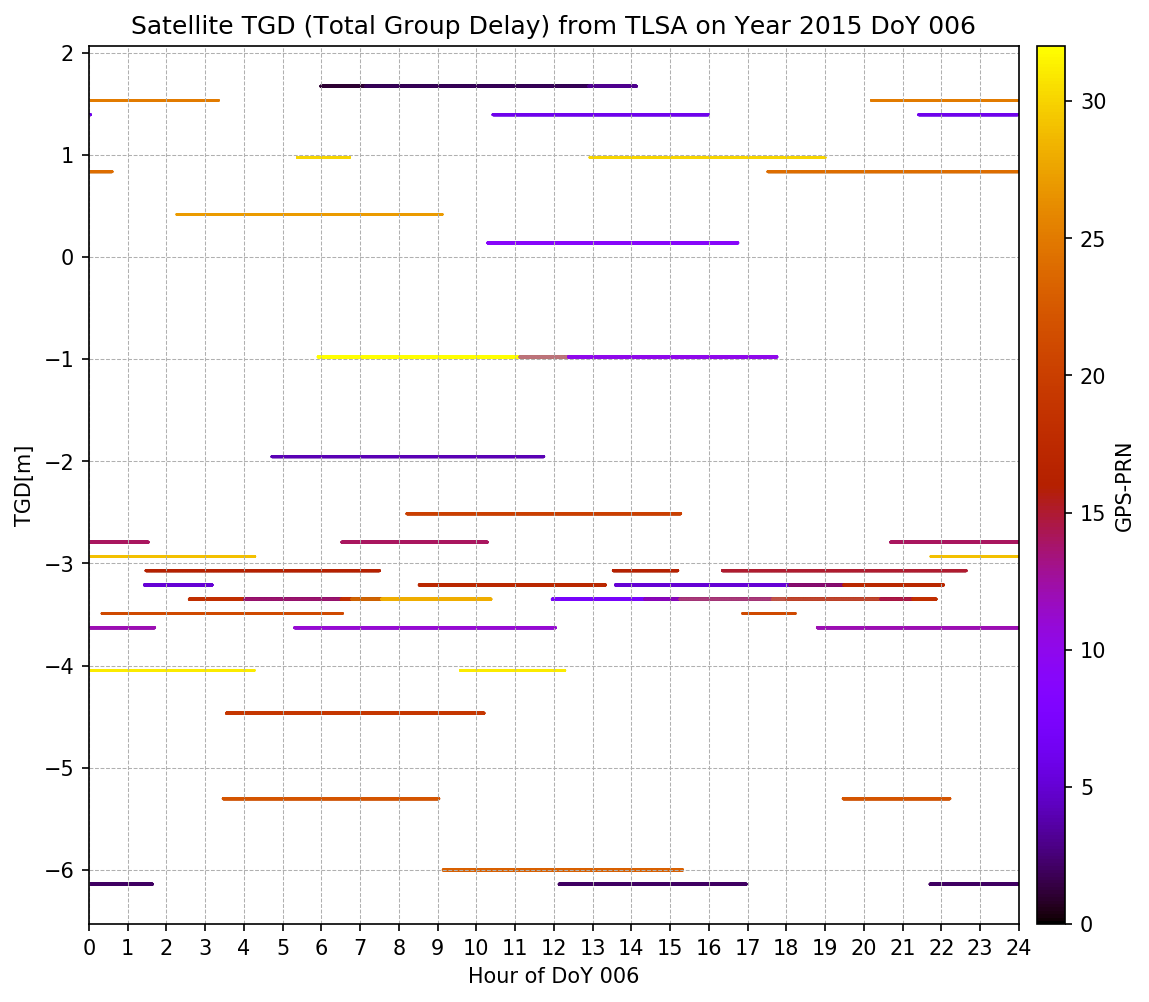
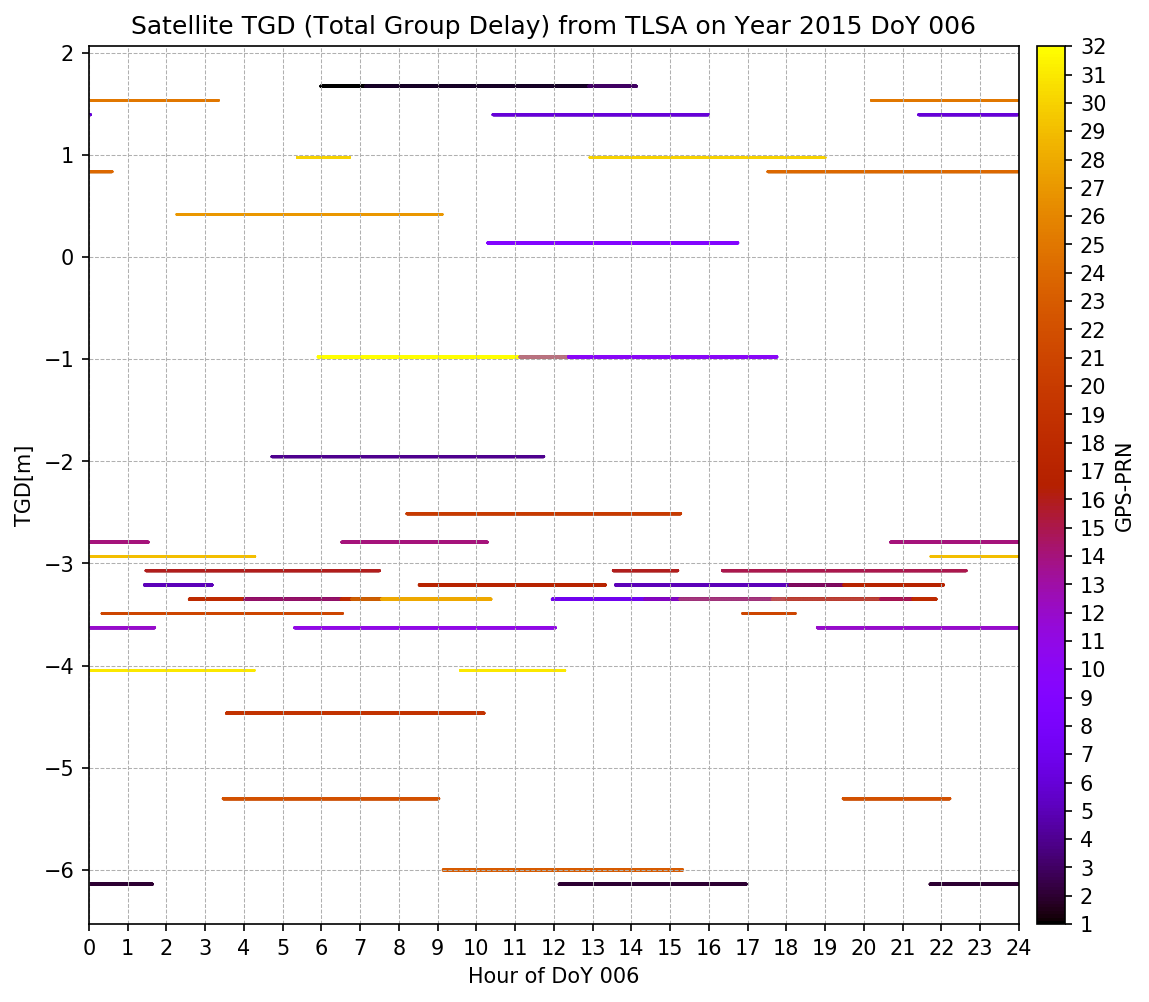
ColorBarTicks

diff --git a/SRC/AtmFunctions.py b/SRC/AtmFunctions.py
@@ -114,6 +114,17 @@ def plotIonVTECvsTime(LosData):
     
     PlotConf["yLabel"] = "VTEC[m]"
     # VTEC PROCESS
+    #VTEC = LosData[LOS_IDX["VTEC[m]"]]
+    #MAPP = LosData[LOS_IDX["MPP[elev]"]]
+    h = GnssConstants.Height_IONO_layer_km * GnssConstants.M_IN_KM
+    Re = GnssConstants.Earth_R_km * GnssConstants.M_IN_KM
+    
+    STEC = LosData[LOS_IDX["STEC[m]"]]
+    elev_rad = (np.array(LosData[LOS_IDX["ELEV"]]) * np.pi) / 180
+
+    mapp_calc = np.array((1 - (Re/(Re+h) * np.cos(elev_rad))**2) ** (-1/2))
+
+    VTEC_calc = STEC / mapp_calc
 
     PlotConf["Grid"] = 1
 
@@ -130,7 +141,7 @@ def plotIonVTECvsTime(LosData):
     PlotConf["zData"] = {}
     Label = 0
     PlotConf["xData"][Label] = LosData[LOS_IDX["SOD"]] / GnssConstants.S_IN_H
-    PlotConf["yData"][Label] = LosData[LOS_IDX["VTEC[m]"]]
+    PlotConf["yData"][Label] = VTEC_calc
     PlotConf["zData"][Label] = LosData[LOS_IDX["ELEV"]]
 
     PlotConf["Path"] = sys.argv[1] + '/OUT/LOS/ION/' + 'IONO_VTEC_vs_TIME_TLSA_D006Y15.png'
@@ -232,8 +243,8 @@ def plotTropoZTD(LosData):
     # ZTD calc
     STD = np.array(LosData[LOS_IDX["TROPO[m]"]])
     
-    elev = (np.array(LosData[LOS_IDX["ELEV"]]) * np.pi) / 180
-    mpp_calc = np.array(1.001/np.sqrt(0.002001 + np.sin(elev)**2))
+    elev_rad = (np.array(LosData[LOS_IDX["ELEV"]]) * np.pi) / 180
+    mpp_calc = np.array(1.001/np.sqrt(0.002001 + np.sin(elev_rad)**2))
 
     ZTD = STD/mpp_calc
     

diff --git a/SRC/COMMON/Plots.py b/SRC/COMMON/Plots.py
@@ -69,18 +69,18 @@ def prepareAxis(PlotConf, ax):
                 if key == axis + "Lim":
                     ax.set_ylim(PlotConf[axis + "Lim"])
 
-            if axis == "z":
+            """ if axis == "z":
                 if key == axis + "Label":
-                    ax.set_ylabel(PlotConf[axis + "Label"])
+                    ax.set_zlabel(PlotConf[axis + "Label"])
 
                 if key == axis + "Ticks":
-                    ax.set_yticks(PlotConf[axis + "Ticks"])
+                    ax.set_zticks(PlotConf[axis + "Ticks"])
 
                 if key == axis + "TicksLabels":
-                    ax.set_yticklabels(PlotConf[axis + "TicksLabels"])
+                    ax.set_zticklabels(PlotConf[axis + "TicksLabels"])
                 
                 if key == axis + "Lim":
-                    ax.set_ylim(PlotConf[axis + "Lim"])
+                    ax.set_zlim(PlotConf[axis + "Lim"]) """
 
             
 
@@ -112,8 +112,10 @@ def prepareColorBar(PlotConf, ax, Values):
     cbar = mpl.colorbar.ColorbarBase(color_ax, 
     cmap=cmap,
     norm=mpl.colors.Normalize(vmin=Min, vmax=Max),
-    label=PlotConf["ColorBarLabel"])
-#ticks option in colorbarbase
+    label=PlotConf["ColorBarLabel"],
+    #ticks option in colorbarbase
+    ticks=PlotConf["ColorBarTicks"])
+
     return normalize, cmap
 
 def drawMap(PlotConf, ax,):

diff --git a/SRC/PosFunctions.py b/SRC/PosFunctions.py
@@ -116,10 +116,13 @@ def plotPosHVDOP(PosData):
     PlotConf["yLabel"] = "DOP"
     #PlotConf["yLim"] = [0.5, 3.0]
 
+    PlotConf["ColorBar"] = "gnuplot"
+    PlotConf["ColorBarLabel"] = "Number of Satellites"
     #PlotConf["zLabel"] = "Number of Satellites"
     #PlotConf["zTicks"] = range(0, 13)
     #PlotConf["zLim"] = [1, 12]
-
+ 
+    
     PlotConf["Grid"] = 1
 
     PlotConf["Marker"] = '-'
@@ -137,16 +140,15 @@ def plotPosHVDOP(PosData):
     colors = ["purple", "green", "orange"]
     
     for idx, label in enumerate(Label):
-        DOP = PosData[POS_IDX[label]]
-
         PlotConf["Color"][label] = colors[idx]
-
+        
         PlotConf["xData"][label] = PosData[POS_IDX["SOD"]] / GnssConstants.S_IN_H
+        DOP = PosData[POS_IDX[label]]
         PlotConf["yData"][label] = DOP
 
     PlotConf["zData"][0] = PosData[POS_IDX["NSATS"]]
     PlotConf["Path"] = sys.argv[1] + '/OUT/POS/POS/' + 'POS_HVDOP_vs_TIME_TLSA_D006Y15.png'
-
+  
     # Call generatePlot from Plots library
     generatePlot(PlotConf)
 

diff --git a/SRC/SatFunctions.py b/SRC/SatFunctions.py
@@ -279,6 +279,7 @@ def plotSatClkCorrected(LosData):
 
     PlotConf["ColorBar"] = "gnuplot"
     PlotConf["ColorBarLabel"] = "GPS-PRN"
+    PlotConf["ColorBarTicks"] = range(1, 33)
 
 
     PlotConf["xData"] = {}
@@ -317,8 +318,7 @@ def plotSatTGD(LosData):
 
     PlotConf["ColorBar"] = "gnuplot"
     PlotConf["ColorBarLabel"] = "GPS-PRN"
-    PlotConf["ColorBarMin"] = 0.
-    PlotConf["ColorBarMax"] = 32.
+    PlotConf["ColorBarTicks"] = range(1, 33)
 
     PlotConf["xData"] = {}
     PlotConf["yData"] = {}

diff --git a/SRC/receiver_analysis.py b/SRC/receiver_analysis.py
@@ -243,6 +243,7 @@ if(Conf["PLOT_ION_VTEC_TIME"] == '1'):
     usecols=[LOS_IDX["SOD"], 
     LOS_IDX["ELEV"],
     LOS_IDX["STEC[m]"],
+    LOS_IDX["MPP[elev]"],
     LOS_IDX["VTEC[m]"]])
     
     print( 'Plot VTEC in meters from STEC ...')

diff --git a/SRC/MsrFunctions.py b/SRC/MsrFunctions.py
@@ -233,6 +233,7 @@ def plotMsrResiduals(LosData):
 
     PlotConf["ColorBar"] = "gnuplot"
     PlotConf["ColorBarLabel"] = "GPS-PRN"
+    PlotConf["ColorBarTicks"] = range(1, 33)
 
     PlotConf["xData"] = {}
     PlotConf["yData"] = {}

diff --git a/SRC/COMMON/GnssConstants.py b/SRC/COMMON/GnssConstants.py
@@ -12,6 +12,9 @@ M_IN_KM = 1000
 # Earth Radius in km
 Earth_R_km = 6371
 
+# Height IONO LAYER in KLOBUCHAR Model 
+Height_IONO_layer_km = 350
+
 # Light Speed in m/s
 LIGHT_SPEED_M_S = 299792458
 
